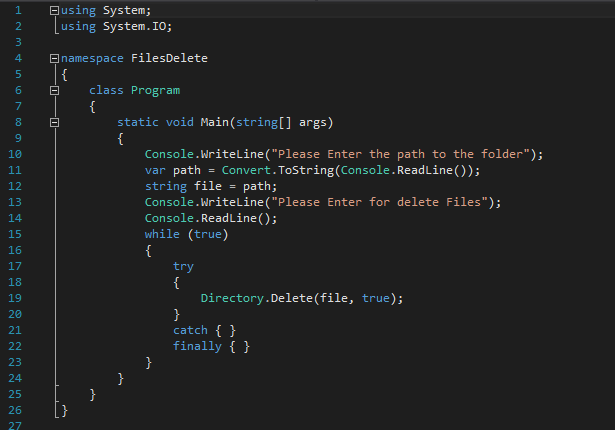
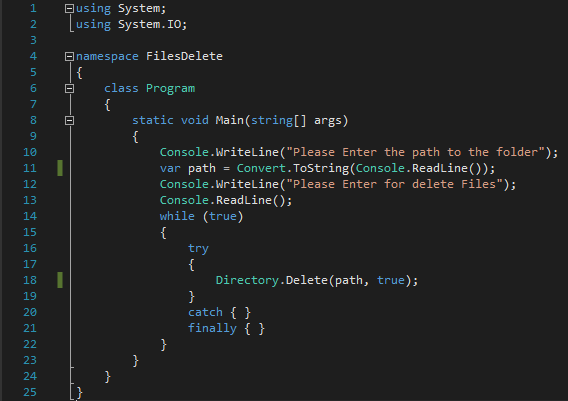
Updated Code And image

diff --git a/FilesDelete/FilesDelete/Program.cs b/FilesDelete/FilesDelete/Program.cs
@@ -9,14 +9,13 @@ namespace FilesDelete
         {
             Console.WriteLine("Please Enter the path to the folder");
             var path = Convert.ToString(Console.ReadLine());
-            string file = path;
             Console.WriteLine("Please Enter for delete Files");
             Console.ReadLine();
             while (true)
             {
                 try
                 {
-                    Directory.Delete(file, true);
+                    Directory.Delete(path, true);
                 }
                 catch { }
                 finally { }
